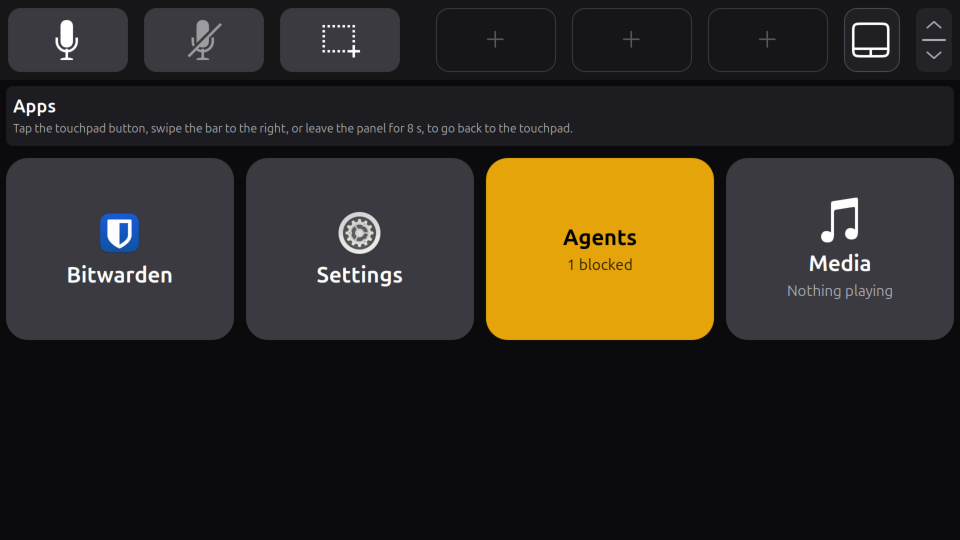
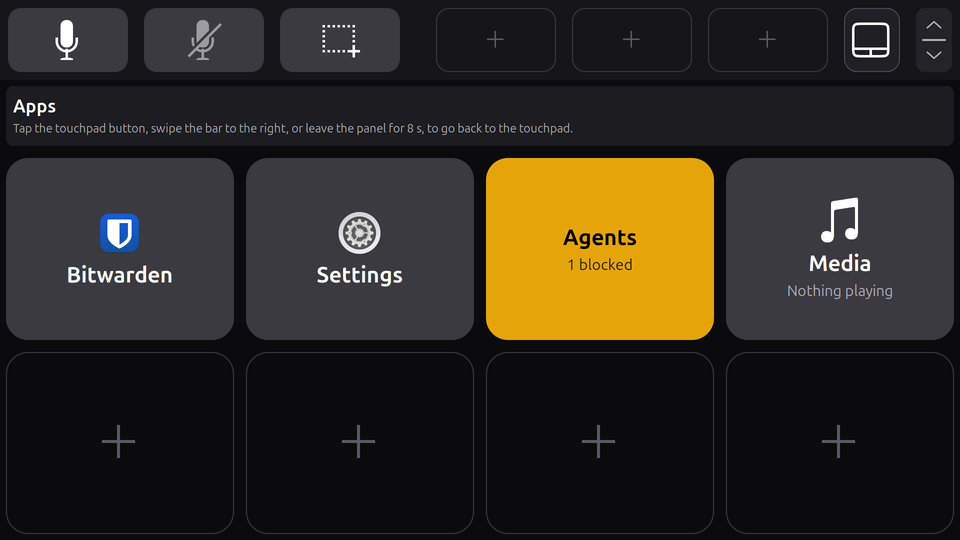
fix(touchbar): draw the home list's + cells faint, and refresh the apps page images
A free cell's + took the neutral tone's fill; it is now an outline like
an empty spot of the bar. The apps page and drag images show the + cells,
and a picker image joins them, rendered in a headless GNOME Shell 50.1.

diff --git a/gnome-shell/screenpad-touchbar@screenpad/stylesheet.css b/gnome-shell/screenpad-touchbar@screenpad/stylesheet.css
@@ -205,6 +205,14 @@
     background-color: #1c1c21;
 }
 
+/* A free cell of the apps page's home list: a faint +, as on an empty
+   spot of the bar. After the tones, so it wins over tone-neutral. */
+.screenpad-touchbar-widget.empty {
+    background-color: transparent;
+    border: 2px solid #3a3a40;
+    color: #5a5a62;
+}
+
 .screenpad-touchbar-widget.long {
     border: 2px solid #9a9aa2;
 }

diff --git a/docs/development.md b/docs/development.md
@@ -135,4 +135,4 @@ The app protocol's version and the client library (`test_app_protocol.py`, `test
 - the client against the daemon's own `AppServer`: the welcome, a tile, a question answered, an event; an app newer than the daemon failing with `ProtocolMismatch`, and one speaking version 1 welcome;
 - the client against the daemon's own `AppServer` in a thread (its version range patched for a bar too new or too old): `hello` and its `welcome`, a bar too new, too old and from before the version (and version 1 welcome there), the refusal through `receive()`, other refusals, no daemon and no `XDG_RUNTIME_DIR`, the bar going away; tiles and pages sent only when changed, a page sent again after `unpage` however it was sent, taps, long presses, answers and `cancel` coming back, errors after the welcome, a tile or page another app's; `Link` connecting when due, a hello that cannot be sent retried (its socket closed), a loss logged once and retried, everything shown again after a reconnect, a refusal logged once over retries, no daemon quiet; and the library importing nothing of the daemon.
 
-The screenshots in `docs/images/` were rendered by the extension in a headless GNOME Shell 50.1 (`gnome-shell --headless --virtual-monitor 1920x1080`) fed the scenes the daemon's own code publishes (a script importing `screenpad_touchbar`, with the virtual monitor's identity from `org.gnome.Mutter.DisplayConfig`), then cropped to the bar, or scaled to half for the pages (`touchbar-touchpad-page.png` with the shell's system bus a second `dbus-daemon` in the private runtime directory, given in `DBUS_SYSTEM_BUS_ADDRESS`, where a stand-in UPower display device gives the battery level and changes it with `PropertiesChanged`; the shell then warns in a banner that screen locking needs the GNOME display manager, so turn banners off on the private bus with `org.gnome.desktop.notifications show-banners false`; `touchbar-apps-page.png` and `touchbar-app-page.png` with two `[[apps]]` items and two apps' pages given through the daemon's own `Apps`; `touchbar-move.png` with a drag fed as device frames through the daemon's own `Splitter` and `route`). Run it under `dbus-run-session` with its own `HOME` and `XDG_*` directories, so it touches nothing of your session. Keep `XDG_CURRENT_DESKTOP` as your session has it (`ubuntu:GNOME` on Ubuntu): Ubuntu's schema overrides, which give the icons and font the screenshots show, apply only to that desktop. **Set them, and unset `DBUS_SESSION_BUS_ADDRESS`, `DISPLAY` and `WAYLAND_DISPLAY`, before starting `dbus-run-session`**, not in the script it runs: services the private bus starts on demand (dconf, gvfs, the portals) get the environment `dbus-run-session` started with, so otherwise `gsettings set` and the shell's own settings writes land in your real `~/.config/dconf/user`. Comparing that file's checksum before and after a run shows it stayed untouched; `org.gnome.Shell.Screenshot` answers only some bus names, such as `org.gnome.SettingsDaemon.MediaKeys`, which a script can own on that private bus. Keep the runtime directory's path short: Unix socket paths are limited to 108 bytes. To check notifications there, send them with `org.freedesktop.Notifications.Notify` on that bus; GNOME 50 sends `ActionInvoked` and `NotificationClosed` only to the notification's sender, so subscribe from the connection that sent it rather than with `gdbus monitor`. `docs/images/touchbar-notification.png` (a real notification, mirrored by the extension to the daemon's socket, which the script serves) and `touchbar-ask.png` come from such a session. To check that the screensaver stays behind windows and the apps page covers them, open a window there (`zenity --info` with `WAYLAND_DISPLAY=wayland-0` in the private runtime directory). To check keeping the desktop off the ScreenPad, start the shell with two virtual monitors (`--virtual-monitor 1920x1080 --virtual-monitor 1920x515`), place them with `org.gnome.Mutter.DisplayConfig.ApplyMonitorsConfig` (method 1, temporary) on each side, give the scene the second one's identity, and drive the pointer with a Clutter virtual pointer's relative motion, as the touchpad's, through `org.gnome.Shell.Eval` (it needs `global.context.unsafe_mode`, which a throwaway extension in the private `HOME` can set). Mutter lets a pointer through a barrier only when it sits exactly on the line, which a warp straight onto it can do: start each push away from the edge. To check Fn+F6's ScreenPad on indicator, publish the daemon's scenes round the cycle and call `org.gnome.Shell.ShowOSD` with `{'icon': <'touchpad-disabled-symbolic'>}` as gsd-media-keys does (refused outside unsafe mode, like `Eval`), in both orders, then read the indicator's icon and label from `Main.osdWindowManager._osdWindows` through `Eval`. The private session's extensions go in `$XDG_DATA_HOME/gnome-shell/extensions`, and disabling one there adds it to `org.gnome.shell disabled-extensions`, which the next run must clear.
+The screenshots in `docs/images/` were rendered by the extension in a headless GNOME Shell 50.1 (`gnome-shell --headless --virtual-monitor 1920x1080`) fed the scenes the daemon's own code publishes (a script importing `screenpad_touchbar`, with the virtual monitor's identity from `org.gnome.Mutter.DisplayConfig`), then cropped to the bar, or scaled to half for the pages (`touchbar-touchpad-page.png` with the shell's system bus a second `dbus-daemon` in the private runtime directory, given in `DBUS_SYSTEM_BUS_ADDRESS`, where a stand-in UPower display device gives the battery level and changes it with `PropertiesChanged`; the shell then warns in a banner that screen locking needs the GNOME display manager, so turn banners off on the private bus with `org.gnome.desktop.notifications show-banners false`; `touchbar-apps-page.png` and `touchbar-app-page.png` with two `[[apps]]` items and two apps' pages given through the daemon's own `Apps`; `touchbar-move.png` with a drag fed as device frames through the daemon's own `Splitter` and `route`; `touchbar-picker.png` with the daemon's own `Picker` opened on the apps page, given two favourite apps). The custom shortcut window was checked there too: the picker's choice calls `AddItem` on the private bus, a Clutter virtual keyboard (`notify_key`, through `org.gnome.Shell.Eval`) records Ctrl+Alt+T, and Add writes it through the checkout's `screenpad-touchbar`, first on `PATH`. Run it under `dbus-run-session` with its own `HOME` and `XDG_*` directories, so it touches nothing of your session. Keep `XDG_CURRENT_DESKTOP` as your session has it (`ubuntu:GNOME` on Ubuntu): Ubuntu's schema overrides, which give the icons and font the screenshots show, apply only to that desktop. **Set them, and unset `DBUS_SESSION_BUS_ADDRESS`, `DISPLAY` and `WAYLAND_DISPLAY`, before starting `dbus-run-session`**, not in the script it runs: services the private bus starts on demand (dconf, gvfs, the portals) get the environment `dbus-run-session` started with, so otherwise `gsettings set` and the shell's own settings writes land in your real `~/.config/dconf/user`. Comparing that file's checksum before and after a run shows it stayed untouched; `org.gnome.Shell.Screenshot` answers only some bus names, such as `org.gnome.SettingsDaemon.MediaKeys`, which a script can own on that private bus. Keep the runtime directory's path short: Unix socket paths are limited to 108 bytes. To check notifications there, send them with `org.freedesktop.Notifications.Notify` on that bus; GNOME 50 sends `ActionInvoked` and `NotificationClosed` only to the notification's sender, so subscribe from the connection that sent it rather than with `gdbus monitor`. `docs/images/touchbar-notification.png` (a real notification, mirrored by the extension to the daemon's socket, which the script serves) and `touchbar-ask.png` come from such a session. To check that the screensaver stays behind windows and the apps page covers them, open a window there (`zenity --info` with `WAYLAND_DISPLAY=wayland-0` in the private runtime directory). To check keeping the desktop off the ScreenPad, start the shell with two virtual monitors (`--virtual-monitor 1920x1080 --virtual-monitor 1920x515`), place them with `org.gnome.Mutter.DisplayConfig.ApplyMonitorsConfig` (method 1, temporary) on each side, give the scene the second one's identity, and drive the pointer with a Clutter virtual pointer's relative motion, as the touchpad's, through `org.gnome.Shell.Eval` (it needs `global.context.unsafe_mode`, which a throwaway extension in the private `HOME` can set). Mutter lets a pointer through a barrier only when it sits exactly on the line, which a warp straight onto it can do: start each push away from the edge. To check Fn+F6's ScreenPad on indicator, publish the daemon's scenes round the cycle and call `org.gnome.Shell.ShowOSD` with `{'icon': <'touchpad-disabled-symbolic'>}` as gsd-media-keys does (refused outside unsafe mode, like `Eval`), in both orders, then read the indicator's icon and label from `Main.osdWindowManager._osdWindows` through `Eval`. The private session's extensions go in `$XDG_DATA_HOME/gnome-shell/extensions`, and disabling one there adds it to `org.gnome.shell disabled-extensions`, which the next run must clear.

diff --git a/docs/touchbar.md b/docs/touchbar.md
@@ -39,7 +39,7 @@ The panel has two pages. The page button in the bar shows the other one, where a
 - **The touchpad page** (home, the default). The bar, and below it the touchpad, exactly as above. Below the bar the extension draws black on the ScreenPad's monitor, with a faint clock in the bottom right corner and the battery level in the bottom left one: the percentage, followed by ⚡ while the laptop is on external power (charging, fully charged, or plugged in and held at a charge threshold). The level comes from UPower's display device, the one GNOME's own power indicator reads, and shows only while it reports a battery. It is drawn black: the panel's brightness is fixed, so this saves no backlight power, but a still, black picture is redrawn only once a minute for the clock, and for the battery only when the percentage shown or the power changes. It lies below windows, though none stays on the ScreenPad ([keeping the desktop off](#keeping-the-desktop-off-the-screenpad)). `[screensaver]` in the [config](configuration.md#pages) turns the clock off; the battery level has no setting.
 - **The apps page.** Below the bar, a surface for apps, drawn over the ScreenPad's windows. It opens on the home page, a list of the config's `[[apps]]` items ([items](configuration.md#items): apps, keys, commands, apps' tiles and pages, which do what they do on the bar) and then of the pages apps give it that no item places ("No apps here yet" while it has neither); tap a page to open it, and **Home** in its header to come back. The list has two rows of four, and more rows when it holds more than eight. An app shows its icon and its name, as GNOME shows them (its id if GNOME does not know it). An app's page is a grid of large widgets. The page shown stays chosen while you are on the touchpad. Apps give their pages through the [app API](app-api.md#pages-on-the-apps-page); the agent app, [screenpad-agents](https://github.com/mmarsot/screenpad-agents), is one. The bar, its items, the page button and cards work the same on both pages. What a touch below the bar does, see [Touches on the apps page](#touches-on-the-apps-page).
 
-![The touchpad page: the bar over a black screensaver with a faint battery level and clock](images/touchbar-touchpad-page.png) ![The apps page's home: the bar over the list, the Bitwarden and Settings apps from the config's [[apps]] items, then the Agents and Media pages two apps give, with how to go back in the header](images/touchbar-apps-page.png)
+![The touchpad page: the bar over a black screensaver with a faint battery level and clock](images/touchbar-touchpad-page.png) ![The apps page's home: the bar over the list, the Bitwarden and Settings apps from the config's [[apps]] items, then the Agents and Media pages two apps give, a faint + in each free cell, with how to go back in the header](images/touchbar-apps-page.png)
 
 **Turning the page.**
 
@@ -84,6 +84,8 @@ Every free place shows a faint `+`: each empty spot of the bar, and on the apps 
 - **Custom shortcut…**, first, opens a small window on the main screen: give it a name, then press **Record a key combination** and press the keys (Ctrl+Alt+T, say: every key goes to the recording, Escape too), or type a command instead, and press **Add**. It is written as a tap key (by name) or a command for `sh`, through `screenpad-touchbar shortcut add-key` or `add-command`; the window shows what went wrong if that fails. It shows only with the extension of this version loaded.
 - **Presets**: Screenshot (Print Screen), Mute, Mute microphone, Play or pause, Next and Previous track, Volume up and down, Lock screen (Super+L), Copy (Ctrl+C), Paste (Ctrl+V), Show desktop (Super+D) and Workspace right and left (Super+Page Down and Up), each a tap key.
 - **The dock's favourite apps** that place does not have yet, as GNOME keeps them (`org.gnome.shell favorite-apps`, read once as the picker opens).
+
+![The picker, Add to the apps page: Back, then Custom shortcut…, Screenshot, Mute, Mute microphone, Play or pause, Next and Previous track, Volume up and down, Lock screen, Copy, Paste, Show desktop, Workspace right and left, and the dock's Files and Calculator](images/touchbar-picker.png)
 
 Tap one to add it at the end of that place's items, its first free spot on the bar; **Back** in the header closes the picker with nothing added, and so does the page going back to the touchpad. What it adds is written to the file like every edit (below), as a block of its own, and can be moved, or edited in the file, like any item.
 
